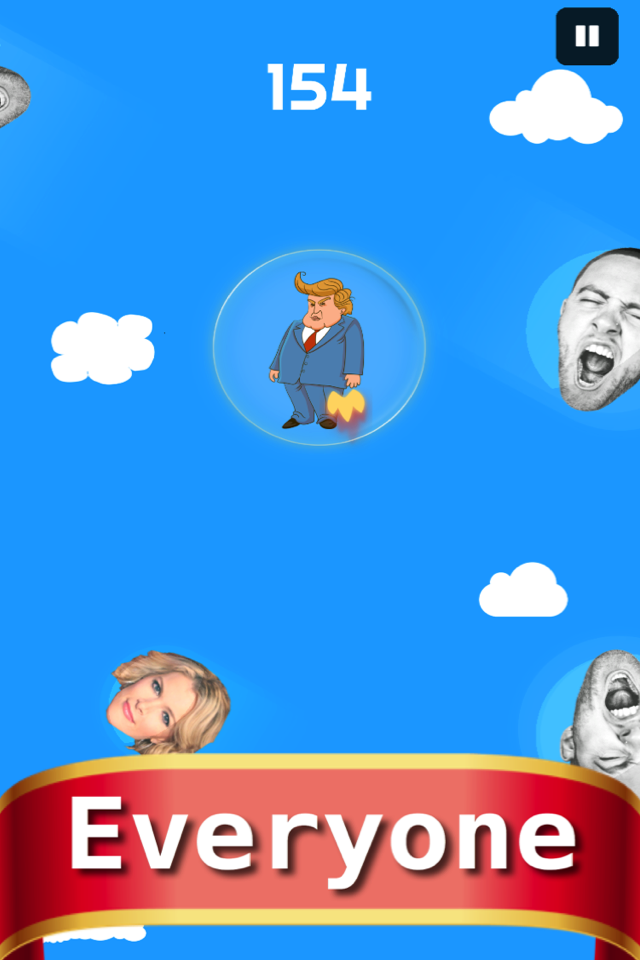
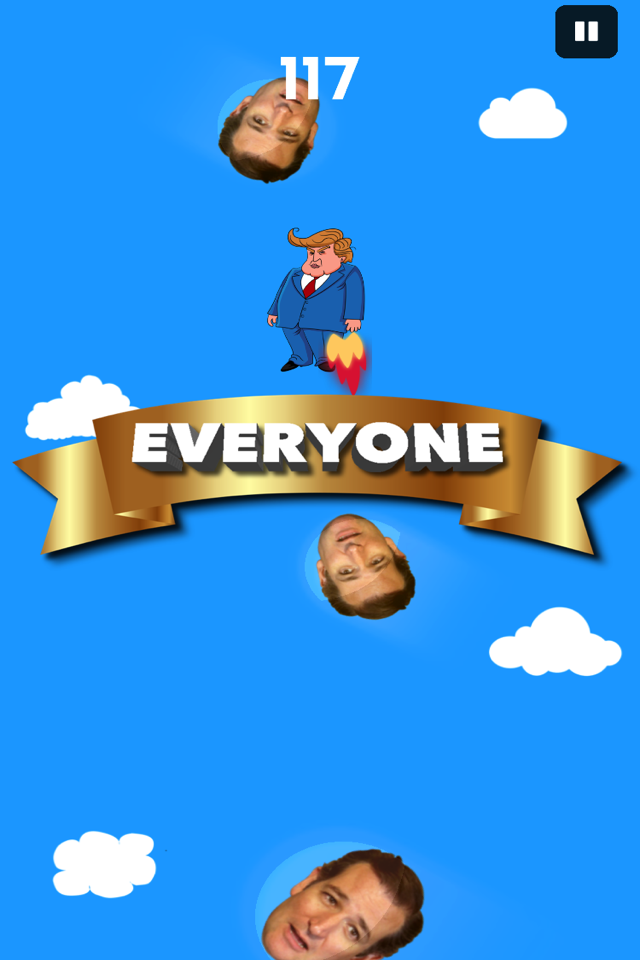
submit to app store 5/10

diff --git a/SpaceUp/EnemiesView.swift b/SpaceUp/EnemiesView.swift
@@ -8,22 +8,22 @@ class EnemiesView : ModalScrollView {
     var highestUserScore:Int?
     //var aLabel = ShadowLabelNode(fontNamed: FontName.RegularFont)
     
-    let firstImage = SpriteButtonNode(imageNamed: TextureFileName.kTedCruz)
-    let secondImage = SpriteButtonNode(imageNamed: TextureFileName.kHilaryClinton)
-    let thirdImage = SpriteButtonNode(imageNamed: TextureFileName.kRosie)
-    let fourthImage = SpriteButtonNode(imageNamed: TextureFileName.kMegyn)
-    let fifthImage = SpriteButtonNode(imageNamed: TextureFileName.kMacMiller)
-    let sixthImage = SpriteButtonNode(imageNamed: TextureFileName.kBeckyG)
-    let seventhImage = SpriteButtonNode(imageNamed: TextureFileName.kJohnOliver)
-    let eighthImage = SpriteButtonNode(imageNamed: TextureFileName.kSNL)
-    let ninethImage = SpriteButtonNode(imageNamed: TextureFileName.kHeidiCruz)
-    let tenthImage = SpriteButtonNode(imageNamed: TextureFileName.kBernieSanders)
-    let eleventhImage = SpriteButtonNode(imageNamed: TextureFileName.kBarackObama)
-    let twelvthImage = SpriteButtonNode(imageNamed: TextureFileName.kJebBush)
-    let thirteenthImage = SpriteButtonNode(imageNamed: TextureFileName.kJohnKasich)
-    let fourteenthImage = SpriteButtonNode(imageNamed: TextureFileName.kNBC)
-    let fifteenthImage = SpriteButtonNode(imageNamed: TextureFileName.kFloRida)
-    let sixteenthImage = SpriteButtonNode(imageNamed: TextureFileName.kMexico)
+    let firstImage = SpriteButtonNode(imageNamed: TextureFileName.kHilaryClinton)
+    let secondImage = SpriteButtonNode(imageNamed: TextureFileName.kTedCruz)
+    let thirdImage = SpriteButtonNode(imageNamed: TextureFileName.kBarackObama)
+    let fourthImage = SpriteButtonNode(imageNamed: TextureFileName.kJohnKasich)
+    let fifthImage = SpriteButtonNode(imageNamed: TextureFileName.kBernieSanders)
+    let sixthImage = SpriteButtonNode(imageNamed: TextureFileName.kEnrique)
+    let seventhImage = SpriteButtonNode(imageNamed: TextureFileName.kVladimirPutin)
+    let eighthImage = SpriteButtonNode(imageNamed: TextureFileName.kMegyn)
+    let ninethImage = SpriteButtonNode(imageNamed: TextureFileName.kgBush)
+    let tenthImage = SpriteButtonNode(imageNamed: TextureFileName.kJebBush)
+    let eleventhImage = SpriteButtonNode(imageNamed: TextureFileName.kMacMiller)
+    let twelvthImage = SpriteButtonNode(imageNamed: TextureFileName.kJohnOliver)
+    let thirteenthImage = SpriteButtonNode(imageNamed: TextureFileName.kStephen)
+    let fourteenthImage = SpriteButtonNode(imageNamed: TextureFileName.kjohnMccain)
+    let fifteenthImage = SpriteButtonNode(imageNamed: TextureFileName.kMexico)
+    let sixteenthImage = SpriteButtonNode(imageNamed: TextureFileName.kislala)
    
     let spriteImagesArray: Array<SpriteButtonNode>
     
@@ -65,110 +65,110 @@ class EnemiesView : ModalScrollView {
         scrollingNode.addChild(firstImage)
         
         
-        let firstTextLabel:SKLabelNode = self.createNewLabelWithPoints(30, name: "Ted Cruz", xPosition: -range, yPosition: 160)
+        let firstTextLabel:SKLabelNode = self.createNewLabelWithPoints(30, name: "Hillary Clinton", xPosition: -range, yPosition: 160)
         scrollingNode.addChild(firstTextLabel)
     
         
         //0 - 1
-        let secondImage = self.createNewImageRequiredPoints(50, position: 1, xPosition: range, yPosition: 300)
+        let secondImage = self.createNewImageRequiredPoints(100, position: 1, xPosition: range, yPosition: 300)
         scrollingNode.addChild(secondImage)
-        let secondTextLabel = self.createNewLabelWithPoints(50, name:"Hilary Clinton", xPosition: range, yPosition: 160)
+        let secondTextLabel = self.createNewLabelWithPoints(100, name:"Ted Cruz", xPosition: range, yPosition: 160)
         scrollingNode.addChild(secondTextLabel)
         
         //1 - 0
-        let thirdImage = self.createNewImageRequiredPoints(75, position: 2, xPosition: -range, yPosition: 25)
+        let thirdImage = self.createNewImageRequiredPoints(180, position: 2, xPosition: -range, yPosition: 25)
         scrollingNode.addChild(thirdImage)
-        let thirdTextLabel = self.createNewLabelWithPoints(75, name:"Rosie O'Donnell", xPosition: -range, yPosition: -115)
+        let thirdTextLabel = self.createNewLabelWithPoints(180, name:"Barack Obama", xPosition: -range, yPosition: -115)
         scrollingNode.addChild(thirdTextLabel)
         
         //1 - 1
-        let fourthImage = self.createNewImageRequiredPoints(120, position: 3, xPosition: range, yPosition: 25)
+        let fourthImage = self.createNewImageRequiredPoints(280, position: 3, xPosition: range, yPosition: 25)
         scrollingNode.addChild(fourthImage)
-        let fourthTextLabel = self.createNewLabelWithPoints(120, name:"Megyn Kelly", xPosition: range, yPosition: -115)
+        let fourthTextLabel = self.createNewLabelWithPoints(280, name:"John Kasich", xPosition: range, yPosition: -115)
         scrollingNode.addChild(fourthTextLabel)
         
         //2 - 0
-        let fifthImage = self.createNewImageRequiredPoints(150, position: 4, xPosition: -range, yPosition: -250)
+        let fifthImage = self.createNewImageRequiredPoints(350, position: 4, xPosition: -range, yPosition: -250)
         scrollingNode.addChild(fifthImage)
-        let fifthTextLabel = self.createNewLabelWithPoints(150, name:"Mac Miller", xPosition: -range, yPosition: -390)
+        let fifthTextLabel = self.createNewLabelWithPoints(350, name:"Bernie Sanders", xPosition: -range, yPosition: -390)
         scrollingNode.addChild(fifthTextLabel)
         
         //2 - 1
-        let sixthImage = self.createNewImageRequiredPoints(170, position: 5, xPosition: range, yPosition: -250)
+        let sixthImage = self.createNewImageRequiredPoints(450, position: 5, xPosition: range, yPosition: -250)
         scrollingNode.addChild(sixthImage)
         
-        let sixthTextLabel = self.createNewLabelWithPoints(170, name:"Becky G", xPosition: range, yPosition: -390)
+        let sixthTextLabel = self.createNewLabelWithPoints(450, name:"Enrique Pena", xPosition: range, yPosition: -390)
         scrollingNode.addChild(sixthTextLabel)
         
         //3 - 0
-        let seventhImage = self.createNewImageRequiredPoints(220, position: 6, xPosition: -range, yPosition: -525)
+        let seventhImage = self.createNewImageRequiredPoints(550, position: 6, xPosition: -range, yPosition: -525)
         scrollingNode.addChild(seventhImage)
         
-        let seventhTextLabel = self.createNewLabelWithPoints(220, name:"John Oliver", xPosition: -range, yPosition: -665)
+        let seventhTextLabel = self.createNewLabelWithPoints(550, name:"Vladimir Putin", xPosition: -range, yPosition: -665)
         scrollingNode.addChild(seventhTextLabel)
         
         //3 - 1
-        let eightImage = self.createNewImageRequiredPoints(250, position: 7, xPosition: range, yPosition: -525)
+        let eightImage = self.createNewImageRequiredPoints(630, position: 7, xPosition: range, yPosition: -525)
         scrollingNode.addChild(eightImage)
         
-        let eightTextLabel = self.createNewLabelWithPoints(250, name:"SNL", xPosition: range - 10, yPosition: -665)
+        let eightTextLabel = self.createNewLabelWithPoints(630, name:"Megyn Kelly", xPosition: range - 10, yPosition: -665)
         scrollingNode.addChild(eightTextLabel)
         
        
         //4
-        let ninthImage = self.createNewImageRequiredPoints(280, position: 8, xPosition:-range, yPosition: -800)
+        let ninthImage = self.createNewImageRequiredPoints(730, position: 8, xPosition:-range, yPosition: -800)
         scrollingNode.addChild(ninthImage)
         
-        let ninthTextLabel = self.createNewLabelWithPoints(280, name:"Heidi Cruz", xPosition: -range, yPosition: -940)
+        let ninthTextLabel = self.createNewLabelWithPoints(730, name:"George Bush", xPosition: -range, yPosition: -940)
         scrollingNode.addChild(ninthTextLabel)
         
         //4 - 1
-        let tenthImage = self.createNewImageRequiredPoints(320, position: 9, xPosition: range, yPosition: -800)
+        let tenthImage = self.createNewImageRequiredPoints(900, position: 9, xPosition: range, yPosition: -800)
         scrollingNode.addChild(tenthImage)
         
-        let tenthTextLabel = self.createNewLabelWithPoints(320, name:"Bernie Sanders", xPosition: range, yPosition: -940)
+        let tenthTextLabel = self.createNewLabelWithPoints(900, name:"Jeb Bush", xPosition: range, yPosition: -940)
         scrollingNode.addChild(tenthTextLabel)
         
         //5
-        let eleventhImage = self.createNewImageRequiredPoints(350, position: 10, xPosition:-range, yPosition: -1075)
+        let eleventhImage = self.createNewImageRequiredPoints(1000, position: 10, xPosition:-range, yPosition: -1075)
         scrollingNode.addChild(eleventhImage)
         
-        let eleventhTextLabel = self.createNewLabelWithPoints(350, name:"Barack Obama", xPosition: -range, yPosition: -1215)
+        let eleventhTextLabel = self.createNewLabelWithPoints(1000, name:"Mac Miller", xPosition: -range, yPosition: -1215)
         scrollingNode.addChild(eleventhTextLabel)
         
         //5 - 1
-        let twelvthImage = self.createNewImageRequiredPoints(380, position: 11, xPosition: range, yPosition: -1075)
+        let twelvthImage = self.createNewImageRequiredPoints(1225, position: 11, xPosition: range, yPosition: -1075)
         scrollingNode.addChild(twelvthImage)
         
-        let twelvthTextLabel = self.createNewLabelWithPoints(380, name:"Jeb Bush", xPosition: range, yPosition: -1215)
+        let twelvthTextLabel = self.createNewLabelWithPoints(1225, name:"John Oliver", xPosition: range, yPosition: -1215)
         scrollingNode.addChild(twelvthTextLabel)
         
         //6
-        let thirteenthImage = self.createNewImageRequiredPoints(420, position: 12, xPosition:-range, yPosition: -1350)
+        let thirteenthImage = self.createNewImageRequiredPoints(1275, position: 12, xPosition:-range, yPosition: -1350)
         scrollingNode.addChild(thirteenthImage)
         
-        let thirteenthTextLabel = self.createNewLabelWithPoints(420, name:"John Kasich", xPosition: -range, yPosition: -1490)
+        let thirteenthTextLabel = self.createNewLabelWithPoints(1275, name:"Stephen Colbert", xPosition: -range, yPosition: -1490)
         scrollingNode.addChild(thirteenthTextLabel)
         
         //6 - 1
-        let fourteenthImage = self.createNewImageRequiredPoints(450, position: 13, xPosition: range, yPosition: -1350)
+        let fourteenthImage = self.createNewImageRequiredPoints(1350, position: 13, xPosition: range, yPosition: -1350)
         scrollingNode.addChild(fourteenthImage)
         
-        let fourteenthTextLabel = self.createNewLabelWithPoints(450, name:"NBC", xPosition: range, yPosition: -1490)
+        let fourteenthTextLabel = self.createNewLabelWithPoints(1350, name:"John Mccain", xPosition: range, yPosition: -1490)
         scrollingNode.addChild(fourteenthTextLabel)
         
         //7 - 1
-        let fifteenthImage = self.createNewImageRequiredPoints(470, position: 14, xPosition:-range, yPosition: -1625)
+        let fifteenthImage = self.createNewImageRequiredPoints(1500, position: 14, xPosition:-range, yPosition: -1625)
         scrollingNode.addChild(fifteenthImage)
         
-        let fifteenthTextLabel = self.createNewLabelWithPoints(470, name:"Flo Rida", xPosition: -range, yPosition: -1765)
+        let fifteenthTextLabel = self.createNewLabelWithPoints(1500, name:"Mexico", xPosition: -range, yPosition: -1765)
         scrollingNode.addChild(fifteenthTextLabel)
         
         //8 - 1
-        let sixteenthImage = self.createNewImageRequiredPoints(600, position: 15, xPosition: range, yPosition: -1625)
+        let sixteenthImage = self.createNewImageRequiredPoints(2000, position: 15, xPosition: range, yPosition: -1625)
         scrollingNode.addChild(sixteenthImage)
         
-        let sixteenthTextLabel = self.createNewLabelWithPoints(600, name:"Mexico", xPosition: range, yPosition: -1765)
+        let sixteenthTextLabel = self.createNewLabelWithPoints(2000, name:"ISIS", xPosition: range, yPosition: -1765)
         scrollingNode.addChild(sixteenthTextLabel)
         
     }

diff --git a/SpaceUp/Nodes/CometNode.swift b/SpaceUp/Nodes/CometNode.swift
@@ -75,9 +75,9 @@ class CometNode: SKSpriteNode {
                 sphere = SKSpriteNode(imageNamed: TextureFileName.CometLarge12)
             }  else if (currentScore > 1250 && currentScore <= 1300) {
                 sphere = SKSpriteNode(imageNamed: TextureFileName.CometLarge13)
-            }  else if (currentScore > 1300 && currentScore <= 1500) {
+            }  else if (currentScore > 1300 && currentScore <= 1450) {
                 sphere = SKSpriteNode(imageNamed: TextureFileName.CometLarge14)
-            }  else if (currentScore > 1500 && currentScore <= 1600) {
+            }  else if (currentScore > 1450 && currentScore <= 1600) {
                 sphere = SKSpriteNode(imageNamed: TextureFileName.CometLarge15)
             }  else if (currentScore > 1600 && currentScore <= 1640) {
                 sphere = SKSpriteNode(imageNamed: TextureFileName.CometLarge19)
@@ -85,9 +85,9 @@ class CometNode: SKSpriteNode {
                 sphere = SKSpriteNode(imageNamed: TextureFileName.CometLarge17)
             }  else if (currentScore > 1680 && currentScore <= 1730) {
                 sphere = SKSpriteNode(imageNamed: TextureFileName.CometLarge18)
-            }  else if (currentScore > 1730 && currentScore <= 2000) {
+            }  else if (currentScore > 1730 && currentScore <= 1950) {
                 sphere = SKSpriteNode(imageNamed: TextureFileName.CometLarge16)
-            }  else if (currentScore > 2000 && currentScore <= 2300) {
+            }  else if (currentScore > 1950 && currentScore <= 2300) {
                 sphere = SKSpriteNode(imageNamed: TextureFileName.CometLarge23)
             }  else if (currentScore > 2300 && currentScore <= 2500) {
                 sphere = SKSpriteNode(imageNamed: TextureFileName.CometLarge21)
@@ -127,9 +127,9 @@ class CometNode: SKSpriteNode {
                 sphere = SKSpriteNode(imageNamed: TextureFileName.CometLarge12)
             }  else if (currentScore > 1250 && currentScore <= 1300) {
                 sphere = SKSpriteNode(imageNamed: TextureFileName.CometLarge13)
-            }  else if (currentScore > 1300 && currentScore <= 1500) {
+            }  else if (currentScore > 1300 && currentScore <= 1450) {
                 sphere = SKSpriteNode(imageNamed: TextureFileName.CometLarge14)
-            }  else if (currentScore > 1500 && currentScore <= 1600) {
+            }  else if (currentScore > 1450 && currentScore <= 1600) {
                 sphere = SKSpriteNode(imageNamed: TextureFileName.CometLarge15)
             }  else if (currentScore > 1600 && currentScore <= 1640) {
                 sphere = SKSpriteNode(imageNamed: TextureFileName.CometLarge19)
@@ -137,9 +137,9 @@ class CometNode: SKSpriteNode {
                 sphere = SKSpriteNode(imageNamed: TextureFileName.CometLarge17)
             }  else if (currentScore > 1680 && currentScore <= 1730) {
                 sphere = SKSpriteNode(imageNamed: TextureFileName.CometLarge18)
-            }  else if (currentScore > 1730 && currentScore <= 2000) {
+            }  else if (currentScore > 1730 && currentScore <= 1950) {
                 sphere = SKSpriteNode(imageNamed: TextureFileName.CometLarge16)
-            }  else if (currentScore > 2000 && currentScore <= 2300) {
+            }  else if (currentScore > 1950 && currentScore <= 2300) {
                 sphere = SKSpriteNode(imageNamed: TextureFileName.CometLarge22)
             }  else if (currentScore > 2300 && currentScore <= 2500) {
                 sphere = SKSpriteNode(imageNamed: TextureFileName.CometLarge21)
@@ -185,9 +185,9 @@ class CometNode: SKSpriteNode {
                 sphere = SKSpriteNode(imageNamed: TextureFileName.CometLarge12)
             }  else if (currentScore > 1250 && currentScore <= 1300) {
                 sphere = SKSpriteNode(imageNamed: TextureFileName.CometLarge13)
-            }  else if (currentScore > 1300 && currentScore <= 1500) {
+            }  else if (currentScore > 1300 && currentScore <= 1450) {
                 sphere = SKSpriteNode(imageNamed: TextureFileName.CometLarge14)
-            }  else if (currentScore > 1500 && currentScore <= 1600) {
+            }  else if (currentScore > 1450 && currentScore <= 1600) {
                 sphere = SKSpriteNode(imageNamed: TextureFileName.CometLarge15)
             }  else if (currentScore > 1600 && currentScore <= 1640) {
                 sphere = SKSpriteNode(imageNamed: TextureFileName.CometLarge19)
@@ -195,9 +195,9 @@ class CometNode: SKSpriteNode {
                 sphere = SKSpriteNode(imageNamed: TextureFileName.CometLarge17)
             }  else if (currentScore > 1680 && currentScore <= 1730) {
                 sphere = SKSpriteNode(imageNamed: TextureFileName.CometLarge18)
-            }  else if (currentScore > 1730 && currentScore <= 2000) {
+            }  else if (currentScore > 1730 && currentScore <= 1950) {
                 sphere = SKSpriteNode(imageNamed: TextureFileName.CometLarge16)
-            }  else if (currentScore > 2000 && currentScore <= 2300) {
+            }  else if (currentScore > 1950 && currentScore <= 2300) {
                 sphere = SKSpriteNode(imageNamed: TextureFileName.CometLarge20)
             }  else if (currentScore > 2300 && currentScore <= 2500) {
                 sphere = SKSpriteNode(imageNamed: TextureFileName.CometLarge21)

diff --git a/SpaceUp/Types/TextureFileName.swift b/SpaceUp/Types/TextureFileName.swift
@@ -87,24 +87,24 @@ struct TextureFileName {
     static let Explosion = "Explosion"
     
     static let kEnemiesButtonGO = "buttonfinishedGO"
-    static let kBarackObama = "BarackObama"
-    static let kBernieSanders = "BernieSanders"
-    static let kFloRida = "FloRida"
+    
     static let kHilaryClinton = "HilaryClinton"
+    static let kTedCruz = "TedCruz"
+    static let kBarackObama = "BarackObama"
+    static let kJohnKasich = "JohnKasich"
+    static let kBernieSanders = "BernieSanders"
+    static let kEnrique = "Enrique"
+    static let kVladimirPutin = "VladimirPutin"
+    static let kMegyn = "Megyn"
+    static let kgBush = "gBush"
     static let kJebBush = "JebBush"
     static let kMacMiller = "MacMiller"
-    static let kMarcoRubio = "MarcoRubio"
-    static let kTedCruz = "TedCruz"
-    static let kVladimirPutin = "VladimirPutin"
-    static let kNoImage = "officialquestion"
-    static let kRosie = "Rosie"
-    static let kMegyn = "Megyn"
-    static let kBeckyG = "BeckyG"
-    static let kSNL = "SNL"
-    static let kHeidiCruz = "HeidiCruz"
     static let kJohnOliver = "JohnO"
-    static let kNBC = "NBC"
-    static let kJohnKasich = "JohnKasich"
+    static let kStephen = "StephenColbert"
+    static let kjohnMccain = "JohnMccain"
     static let kMexico = "Mexico"
+    static let kislala = "islala"
+    static let kHeidiCruz = "HeidiCruz"
+    static let kNoImage = "officialquestion"
     static let kCloseEnemiesViewButton = "closeEnemiesViewButton"
 }
